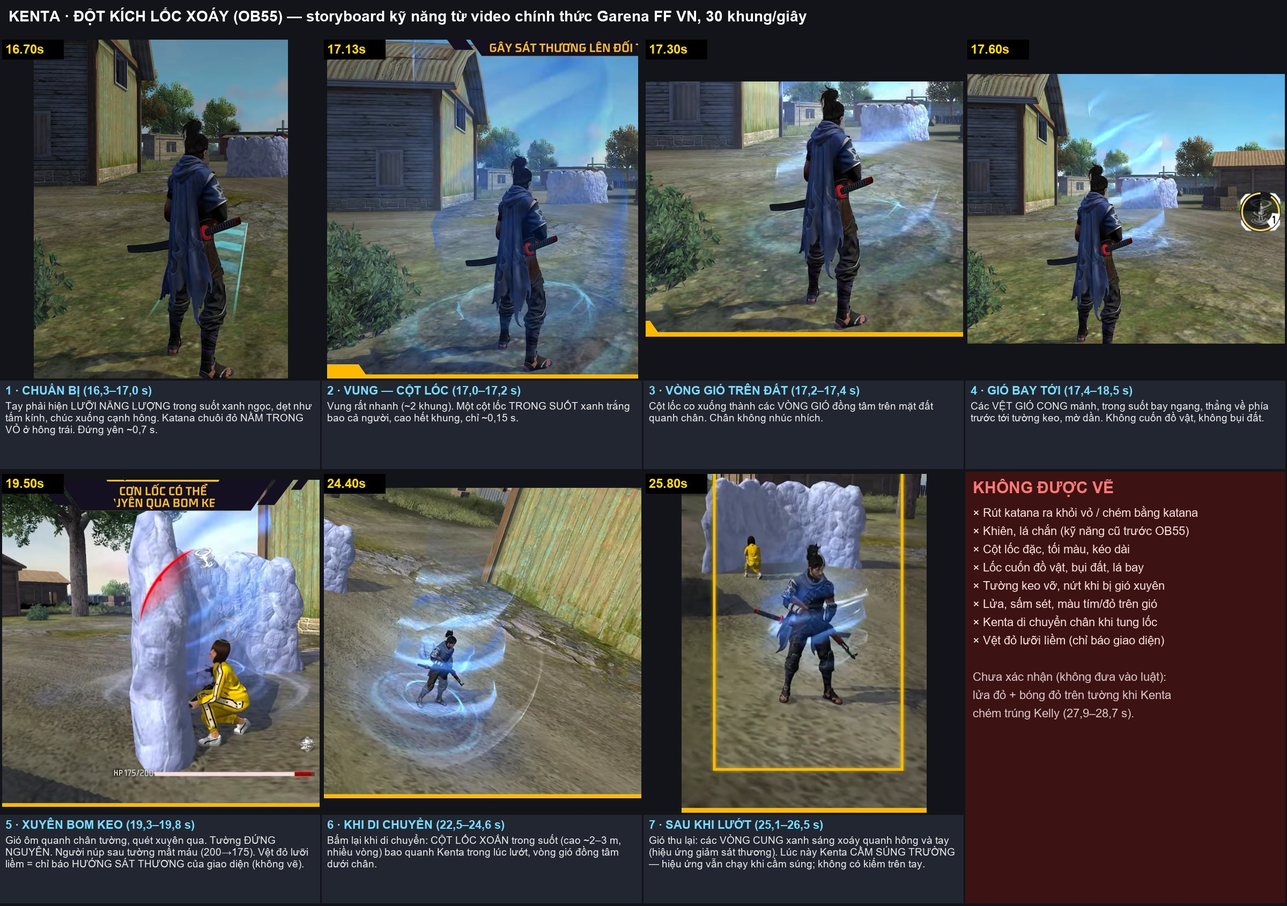
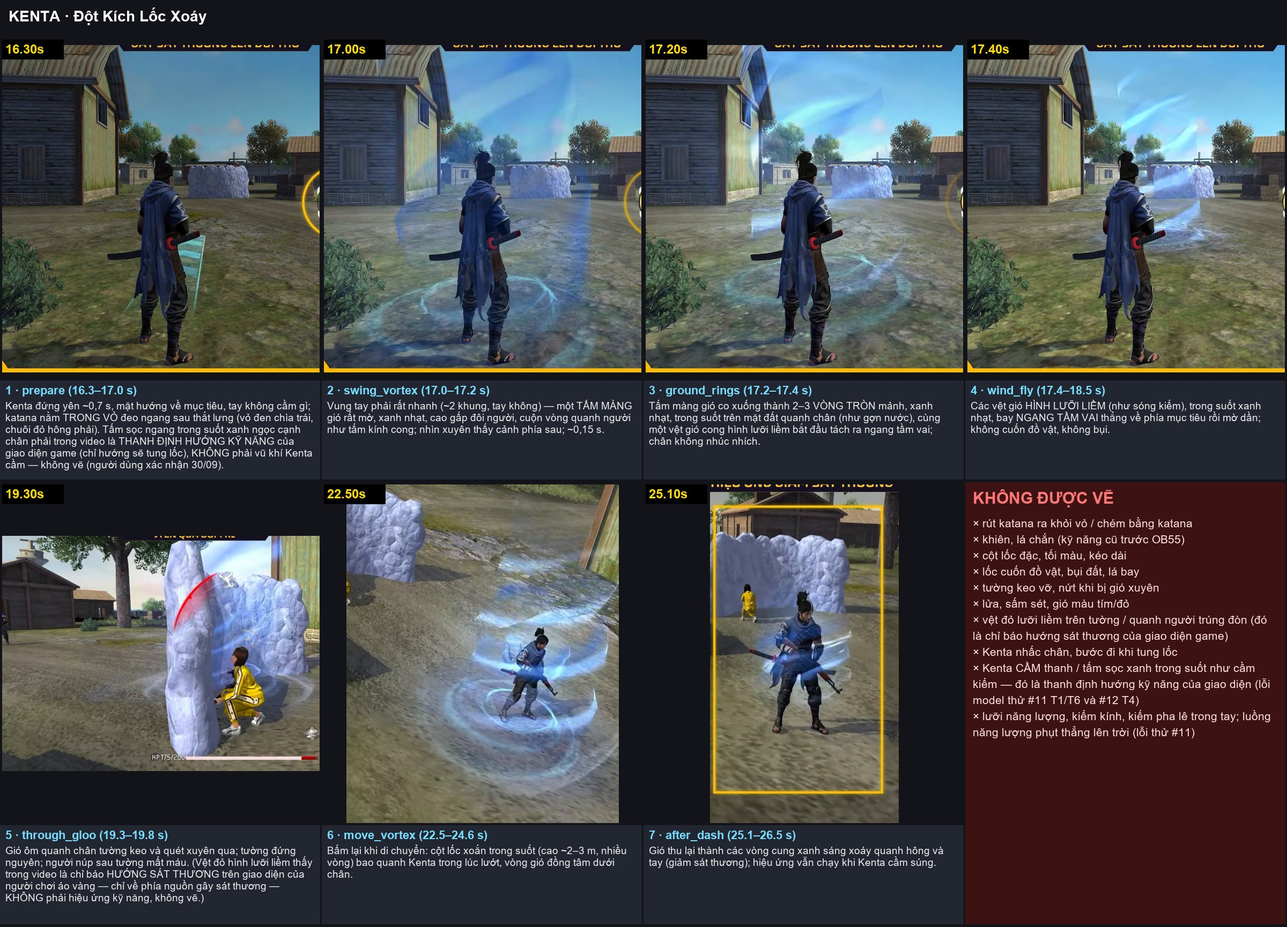
S5.5' thử place_render_refs 1 cảnh (#13, 0,312 USD): ảnh toàn cảnh khớp 3D, 5/5 khung theo chữ cũ → auto_spot cả cảnh một chỗ + câu render quyết định nơi chốn; S10.3 Orion gán vai; storyboard Kenta dựng lại (lệnh storyboard)

diff --git a/tools/experiments/place_refs_trial.py b/tools/experiments/place_refs_trial.py
@@ -1,0 +1,161 @@
+"""S5.5' — thử có trả tiền cờ `place_render_refs` trên 1 cảnh (người dùng duyệt 30/09; trần riêng CAP_USD):
+
+Cảnh "khu nhà dưới chân tháp" của #8 (shot 20–24, ban ngày, Tháp Đồng Hồ #263) chép sang một dự án thử (không đụng #8 đã giao).
+Mỗi shot được render 3D đúng góc máy làm ảnh tham chiếu nơi chốn + câu số đo; vẽ khung bằng model ảnh của #8 qua ImageRunner (trần +
+sổ chi); rồi đo độ khớp nền (`place_refs.background_match`) so với số gốc 0,073 của các khung #8 cũ.
+
+    py tools/experiments/place_refs_trial.py setup                  dự án thử (0 USD) — in mã dự án
+    py tools/experiments/place_refs_trial.py --project N plates     render 3D các shot (Blender, 0 USD)
+    py tools/experiments/place_refs_trial.py --project N plan       in ảnh tham chiếu + prompt sẽ gửi (0 USD, provider giả)
+    py tools/experiments/place_refs_trial.py --project N frames     vẽ ảnh toàn cảnh + khung các shot (trả tiền, trần CAP_USD)
+    py tools/experiments/place_refs_trial.py --project N measure    độ khớp nền từng shot, so với khung #8 cùng shot
+
+Chạy từ D:\\AI-Video-Pipeline."""
+import argparse
+import json
+import os
+import sys
+import time
+
+sys.path.insert(0, os.path.join(os.path.dirname(__file__), "..", ".."))
+
+NAME = "Thử place_render_refs 1 cảnh (30/09)"
+SOURCE, KEEP = 8, range(20, 25)        # #8, shots 20–24: "khu nhà dưới chân tháp", day
+CAP_USD = 1.0                          # 5 shots + 1 establishing ≈ 0,31 USD; ≤ 2 redraws each — người dùng duyệt 30/09
+BASELINE = 0.073                       # mean background match of the 19 measurable #8 frames (docs/THU_PLACE_RENDER_REFS_2026-09-30.md)
+ENV = {"FEATURE_PLACE_RENDER_REFS": "1", "FEATURE_STORYBOARD_API": "0", "FEATURE_LOCATION_PLATES": "0"}
+DATA = os.path.join("data", "projects")
+
+
+def _p():
+    from tools.experiments.group_test import load_env
+    load_env(os.getcwd())
+    os.environ.update(ENV)
+    from core.db import connect
+    from core.pipeline import Pipeline
+    return Pipeline(connect(os.environ.get("PIPELINE_DB") or os.path.join("data", "manifest.sqlite")))
+
+
+def spent(p, pid):
+    from core import project_budget
+    return round(sum(project_budget.spent_by_stage(p.conn, pid).values()), 4)
+
+
+def rows_of(p, pid):
+    return [{"id": r["id"], "idx": r["idx"], "data": json.loads(r["data"] or "{}")}
+            for r in p.conn.execute("SELECT id, idx, data FROM scenes WHERE project_id=? ORDER BY idx", (pid,))]
+
+
+def setup(p):
+    from core import compare
+    row = p.conn.execute("SELECT id FROM projects WHERE name=?", (NAME,)).fetchone()
+    if row:
+        print("đã có dự án:", row["id"])
+        return
+    pid = compare.clone_project(p, SOURCE, NAME)
+    p.conn.execute(f"DELETE FROM scenes WHERE project_id=? AND idx NOT IN ({','.join('?' * len(KEEP))})", (pid, *KEEP))
+    p.conn.commit()
+    print("dự án thử:", pid, "·", len(rows_of(p, pid)), "shot")
+
+
+def plates(p, pid):
+    from core import location_pack, place_refs
+    idx = location_pack.ensure_plates(p.conn, pid, DATA, os.getcwd(), place_refs.resolution_of(p.project(pid)), log=print)
+    for r in rows_of(p, pid):
+        rec = location_pack.plate_of(DATA, pid, r["id"])
+        print(r["idx"], r["data"].get("shot"), "→", rec and rec.get("plate"))
+    return idx
+
+
+def plan(p, pid):
+    from core.providers import MockImageProvider
+    from core.runner import ImageRunner
+    runner = ImageRunner(p, MockImageProvider(), DATA)
+    for r in rows_of(p, pid):
+        job = {"id": -1, "scene_id": r["id"], "project_id": pid, "retry_reason": None, "type": "image_gen"}
+        kw = runner._submit_kwargs(job)
+        args = runner._submit_args(job)
+        print(f"--- shot {r['idx']} ({r['data'].get('shot')})")
+        if not args:
+            print("(không gửi)")
+            continue
+        print("ẢNH:", [os.path.relpath(str(x)) for x in (args[1] if len(args) > 1 else [])], kw or "")
+        print(args[0])
+
+
+def frames(p, pid):
+    from core.adapters import factory
+    from core.runner import ImageRunner
+    rows = rows_of(p, pid)
+    todo = [r for r in rows if not p.conn.execute("SELECT 1 FROM jobs WHERE scene_id=? AND type='image_gen' AND state NOT IN "
+                                                  "('failed','rejected','cancelled')", (r["id"],)).fetchone()]
+    usd = 0.052 * (len(todo) + 1)                 # + the scene's establishing picture
+    s = spent(p, pid)
+    if s + usd > CAP_USD + 1e-9:
+        raise SystemExit(f"TRẦN CHẶN: đã chi ${s:.2f} + ≈ ${usd:.2f} > trần ${CAP_USD:.2f}")
+    print(f"trần: đã chi ${s:.2f}, lần này ≈ ${usd:.2f}, còn ${CAP_USD - s - usd:.2f}")
+    for r in todo:
+        p.create_job(r["id"], "image_gen")
+    runner = ImageRunner(p, factory.image_provider(), DATA)
+    ids = {r["id"] for r in rows}
+    t0 = time.time()
+    while time.time() - t0 < 2400:
+        if spent(p, pid) > CAP_USD + 1e-9:
+            print("TRẦN: dừng gửi thêm")
+            break
+        runner.submit_pending(pid)
+        runner.poll_once(pid)
+        states = {r["id"]: r["state"] for r in p.conn.execute("SELECT scene_id id, state FROM jobs WHERE project_id=? AND type='image_gen' "
+                                                              "ORDER BY id", (pid,)) if r["id"] in ids}
+        print(time.strftime("%H:%M:%S"), states, "· đã chi", spent(p, pid), flush=True)
+        if len(states) == len(ids) and all(s in ("succeeded", "approved", "pending_review", "failed", "escalated") for s in states.values()):
+            break
+        time.sleep(15)
+    print("đã chi:", spent(p, pid))
+
+
+def _latest_image(p, pid, scene_id):
+    j = p.conn.execute("SELECT id FROM jobs WHERE scene_id=? AND type='image_gen' AND state IN ('succeeded','approved','pending_review') "
+                       "ORDER BY id DESC LIMIT 1", (scene_id,)).fetchone()
+    path = j and os.path.join(DATA, str(pid), "images", f"job_{j['id']}.png")
+    return path if path and os.path.exists(path) else None
+
+
+def measure(p, pid):
+    from core import location_pack, place_refs
+    old = {r["idx"]: r["id"] for r in rows_of(p, SOURCE)}
+    out, new_s, old_s = [], [], []
+    for r in rows_of(p, pid):
+        rec = location_pack.plate_of(DATA, pid, r["id"])
+        plate = rec and rec.get("plate")
+        new = _latest_image(p, pid, r["id"])
+        before = _latest_image(p, SOURCE, old.get(r["idx"])) if old.get(r["idx"]) else None
+        a = place_refs.background_match(new, plate) if new and plate else None
+        b = place_refs.background_match(before, plate) if before and plate else None
+        new_s += [a] if a is not None else []
+        old_s += [b] if b is not None else []
+        out.append({"shot": r["idx"], "size": r["data"].get("shot"), "new": a, "old_8": b, "image": new, "plate": plate})
+        print(f"shot {r['idx']:>2} {str(r['data'].get('shot'))[:28]:<28} mới {a}  ·  #8 cũ {b}")
+    avg = lambda v: round(sum(v) / len(v), 3) if v else None  # noqa: E731
+    print(f"TRUNG BÌNH mới {avg(new_s)} (n={len(new_s)}) · #8 cũ cùng shot {avg(old_s)} (n={len(old_s)}) · số gốc 19 khung #8 {BASELINE}")
+    dest = os.path.join(DATA, str(pid), "place_refs_measure.json")
+    json.dump({"rows": out, "mean_new": avg(new_s), "mean_old": avg(old_s), "baseline": BASELINE, "usd": spent(p, pid)},
+              open(dest, "w", encoding="utf-8"), ensure_ascii=False, indent=1)
+    print("ghi:", dest)
+
+
+def main(argv=None):
+    ap = argparse.ArgumentParser()
+    ap.add_argument("step", choices=("setup", "plates", "plan", "frames", "measure"))
+    ap.add_argument("--project", type=int)
+    a = ap.parse_args(argv)
+    p = _p()
+    if a.step == "setup":
+        return setup(p)
+    if not a.project:
+        raise SystemExit("cần --project N")
+    {"plates": plates, "plan": plan, "frames": frames, "measure": measure}[a.step](p, a.project)
+
+
+if __name__ == "__main__":
+    main()

diff --git a/tests/test_place_refs.py b/tests/test_place_refs.py
@@ -61,6 +61,14 @@ class PlaceRefsTests(unittest.TestCase):
         self.assertEqual(place_refs.swap_in(refs, None, 6), refs)
         self.assertEqual(len(place_refs.swap_in(refs, ref, 2)), 2)
 
+    def test_the_render_wins_over_place_words(self):
+        """S5.5' 30/09: 5/5 shots drew the "stone plaza + tower" words instead of the attached render — the prompt now says the render
+        decides the place, before the scene text."""
+        import inspect
+        from core import runner
+        self.assertIn("draw what the render shows and ignore those words", place_refs.PRECEDENCE)
+        self.assertIn("place_refs.PRECEDENCE", inspect.getsource(runner.ImageRunner._submit_args))
+
     def test_geometry_sentence_has_the_real_numbers(self):
         s = place_refs.geometry_sentence(REC, {"characters": ["KELLY"]}, 250.0)
         self.assertIn("35 mm lens, camera 1.6 m above the ground", s)
@@ -134,6 +142,22 @@ class PlaceRefsTests(unittest.TestCase):
         old = dict(houses, plate_spot="level_26_0")                        # an FFXN spot name: the words decide, and it is said
         self.assertEqual(location_pack.spot_for(entry, old)["name"], "nha_do_nam")
         self.assertIn("'nha_do_nam' (khớp chữ mô tả shot)", location_pack.spot_problem(entry, old))
+
+    def test_every_shot_of_a_scene_stands_at_the_same_spot(self):
+        """S5.5' 30/09: the scene's place words decide before each shot's prompt words; a spot NAMED by the words beats one that only
+        mentions them in its side description."""
+        from core import location_pack
+        entry = {"default_spot": "plaza_front", "spots": {
+            "plaza_front": {"at": [0, 0, 0], "label": "quảng trường trước tháp (cách 16 m)"},
+            "dong_co_tay_nam": {"at": [1, 0, 0], "label": "đồng cỏ tây nam — bậc thang, dãy nhà, tháp phía sau"},
+            "nha_do_nam": {"at": [2, 0, 0], "label": "dãy nhà mái đỏ phía nam"}}}
+        place = "Quanh Tháp Đồng Hồ (Đảo Quân Sự) — khu nhà dưới chân tháp"
+        shots = [{"location": place, "image_prompt": "wide shot, stone plaza, the clock tower in background"},
+                 {"location": place, "image_prompt": "over the shoulder, daytime yard, grass"},
+                 {"location": place, "blocking": "quảng trường trước tháp, Kelly chạy"}]
+        self.assertEqual({location_pack.spot_for(entry, d)["name"] for d in shots}, {"nha_do_nam"})
+        self.assertEqual(location_pack.auto_spot(entry, {"location": "Tháp Đồng Hồ", "image_prompt": "rặng dừa"}), None)
+        self.assertEqual(location_pack.auto_spot(entry, {"location": "Tháp Đồng Hồ", "blocking": "đồng cỏ"}), "dong_co_tay_nam")
 
     def test_background_render_runs_once_per_project(self):
         gate, calls = threading.Event(), []

diff --git a/tools/skill_dossier_build.py b/tools/skill_dossier_build.py
@@ -197,10 +197,20 @@ def clean_sheet(d, info, out, height=768):
 
 
 def storyboard(d, info, out):
-    """Panels = the phases (crop + seconds + Vietnamese caption) and a 'KHÔNG ĐƯỢC VẼ' panel from never_vi."""
+    """Panels = the phases (crop + seconds + Vietnamese caption) and a 'KHÔNG ĐƯỢC VẼ' panel from never_vi. A hand-built dossier
+    (no source video in `build`, e.g. KENTA) uses each phase's own cut image `frame` instead of re-cutting the video."""
     from PIL import Image, ImageDraw
     b = d["build"]
-    phases = [p for p in d["phases"] if p["id"] in b.get("crops", {})]
+    folder = b.get("_folder") or "."
+
+    def panel(p):
+        if p["id"] in b.get("crops", {}):
+            t, box = b["crops"][p["id"]]
+            return t, _box(Image.open(frame_at(b, t, info)).convert("RGB"), box)
+        return float(p["t"][0]), Image.open(os.path.join(folder, p["frame"])).convert("RGB")
+
+    phases = [p for p in d["phases"] if p["id"] in b.get("crops", {})
+              or (p.get("frame") and os.path.exists(os.path.join(folder, p["frame"])))]
     W, H, CAP, cols = 600, 640, 190, 4
     n = len(phases) + 1
     rows = (n + cols - 1) // cols
@@ -220,9 +230,8 @@ def storyboard(d, info, out):
         return lines + [cur]
 
     for k, p in enumerate(phases):
-        t, box = b["crops"][p["id"]]
+        t, im = panel(p)
         x, y = (k % cols) * W, 70 + (k // cols) * (H + CAP)
-        im = _box(Image.open(frame_at(b, t, info)).convert("RGB"), box)
         im.thumbnail((W - 8, H - 8))
         sb.paste(im, (x + (W - im.width) // 2, y + (H - im.height) // 2))
         dr.rectangle([x + 4, y + 4, x + 118, y + 40], fill=(0, 0, 0))
@@ -290,7 +299,7 @@ def cmd_build(folder):
 
 def main(argv=None):
     ap = argparse.ArgumentParser()
-    ap.add_argument("step", choices=("sparse", "dense", "build"))
+    ap.add_argument("step", choices=("sparse", "dense", "build", "storyboard"))
     ap.add_argument("paths", nargs="+")
     ap.add_argument("--from", dest="t0", type=float)
     ap.add_argument("--to", dest="t1", type=float)
@@ -299,6 +308,10 @@ def main(argv=None):
         cmd_sparse(*a.paths[:2])
     elif a.step == "dense":
         cmd_dense(a.paths[0], a.paths[1], a.t0, a.t1)
+    elif a.step == "storyboard":            # only the storyboard again, from the cut images already in the folder
+        d = json.load(open(os.path.join(a.paths[0], "skill.json"), encoding="utf-8"))
+        d["build"]["_folder"] = a.paths[0]
+        print("xong:", storyboard(d, None, os.path.join(a.paths[0], d.get("storyboard") or "storyboard_ky_nang.jpg")))
     else:
         cmd_build(a.paths[0])
 

diff --git a/core/location_pack.py b/core/location_pack.py
@@ -89,19 +89,25 @@ def auto_spot(entry: Dict, data: Dict) -> Optional[str]:
     """30/09 dry run on #8: every one of 33 shots stood on the default spot although the scenes said "khu nhà ở dưới chân tháp",
     "góc khuất gần khu nhà", "chiến trường…" (`plate_spot` is only written when the Director sees the spot list). A shot without
     `plate_spot`: the spot whose label shares the most words with the shot's place / text (≥ 1 meaningful word), else None.
-    Indoor spots only when the shot says it is inside (trong nhà / inside / indoor / room / phòng)."""
+    Indoor spots only when the shot says it is inside (trong nhà / inside / indoor / room / phòng).
+    The scene's place words (`location` / `set`, the same on every shot of a script scene) are matched first, the shot's own words only
+    when they match nothing — S5.5' 30/09: matching each shot's prompt put shots 20/21/23 of one conversation at the tower's foot and
+    22/24 on the south-west meadow 150 m away."""
     spots = entry.get("spots") or {}
     blob = " ".join(str(data.get(k) or "") for k in ("location", "set", "text", "image_prompt", "blocking"))
-    words = _words(blob)
     inside = bool(re.search(r"\b(trong nha|inside|indoor|interior|room|phong|living room|bedroom|kitchen)\b", assets.fold(blob)))
-    best, score = None, 0
-    for name, sp in spots.items():
-        if bool(sp.get("indoor")) != inside:
-            continue
-        s = len(words & _words(f"{sp.get('label') or ''} {name.replace('_', ' ')}"))
-        if s > score:
-            best, score = name, s
-    return best
+
+    def best_for(words):
+        best, score = None, 0
+        for name, sp in spots.items():
+            if bool(sp.get("indoor")) != inside:
+                continue
+            head, _, rest = str(sp.get("label") or "").partition(" — ")    # "đồng cỏ tây nam — bậc thang, dãy nhà…": the head
+            s = 2 * len(words & _words(f"{head} {name.replace('_', ' ')}")) + len(words & (_words(rest) - _words(head)))   # names it
+            if s > score:
+                best, score = name, s
+        return best
+    return best_for(_words(" ".join(str(data.get(k) or "") for k in ("location", "set")))) or best_for(_words(blob))
 
 
 def spot_for(entry: Dict, data: Dict) -> Dict:

diff --git a/core/place_refs.py b/core/place_refs.py
@@ -32,6 +32,16 @@ _RUNNING: Dict[int, threading.Thread] = {}
 _LOCK = threading.Lock()
 
 
+# S5.5' (30/09, project #13, 0,31 USD): with the render attached AND scene words describing another place ("stone plaza, the clock tower
+# in background", the generic "Setting: … tower stands on a wide flat stone plaza"), gpt-image-2.5 drew the words: 5/5 shots a paved plaza
+# + tower, 0/5 the house and grass of the render (the establishing picture, with no such words, matched the render). The render must win
+# over words, said before the scene text.
+PRECEDENCE = ("The place is decided by the 3D render image of this shot, not by words: wherever the scene or setting text below describes "
+              "the ground, buildings, tower, walls or layout differently from that render (for example a paved plaza where the render shows "
+              "grass, or a tower the render does not show), draw what the render shows and ignore those words. Take from the text only the "
+              "people, their actions, expressions and the light.")
+
+
 def enabled() -> bool:
     return features.on(FEATURE) and not features.on("location_plates")
 

diff --git a/core/runner.py b/core/runner.py
@@ -1490,6 +1490,7 @@ class ImageRunner(_Runner):
                 geo = place_refs.geometry_sentence(ref["_rec"], data, (entry or {}).get("sun_azimuth", 250.0))
                 if geo:
                     prompt = f"{prompt} {geo}"
+                prompt = f"{place_refs.PRECEDENCE} {prompt}"   # S5.5' 30/09: words about the place lost to the render otherwise
         from . import skill_dossier
         if skill_dossier.enabled():                    # 30/09: the phase's real frame from the skill video (the dossier)
             for problem in skill_dossier.shot_problems(data):

diff --git a/docs/KE_HOACH_SUA_SAU_DU_AN_8.md b/docs/KE_HOACH_SUA_SAU_DU_AN_8.md
@@ -118,7 +118,7 @@
 - [x] S5.2 · Chặn prompt thiếu câu bố cục · nặng:1 · ✅ · 2026-09-29: job ảnh bị giữ (miễn phí) khi cảnh ghi nơi Kho có mô tả bố cục mà dự án chưa gắn; câu bố cục không còn bị cắt ở 300 ký tự; test
 - [x] S5.3 · Địa điểm đổi → khung thành "cũ" · nặng:1 · ✅ · 2026-09-29: dấu vân tay bối cảnh (mô tả + ảnh) trong mã đầu vào ảnh; ảnh làm trước 29/09 không báo nhầm; test
 - [x] S5.4 · Lớp 0 đo "tầng tường" · nặng:2 · ✅ · 2026-09-29: đếm đường ngang dài ở nền (hiệu chỉnh trên dữ liệu thật: render tháp 0–3, khung nhiều tầng #8 5–10) → cờ stacked_tiers khi bối cảnh Kho tả là phẳng; test
-- [ ] S5.5 · 💵 Thử 1 cảnh `place_render_refs` (3–5 shot ở Tháp, render 3D đúng góc làm ảnh tham chiếu) — thay việc vẽ lại khung FFXN cũ; so độ khớp nền với mốc 0,073 · nặng:1 · ⬜ · chạy khô #8 xong 30/09 (33/33 shot có render + câu số đo); ≈ 0,5 USD, hỏi trước
+- [ ] S5.5 · 💵 Thử 1 cảnh `place_render_refs` (3–5 shot ở Tháp, render 3D đúng góc làm ảnh tham chiếu) — thay việc vẽ lại khung FFXN cũ; so độ khớp nền với mốc 0,073 · nặng:1 · 🔄 · 30/09 chiều: thử trả tiền #13 (0,312 USD): ảnh toàn cảnh khớp render, 5/5 khung shot theo chữ cũ "stone plaza + tower" thay vì render → sửa `auto_spot` (cả cảnh một chỗ) + câu "render quyết định nơi chốn" (`place_refs.PRECEDENCE`); số background_match không phân biệt được (0,202 vs 0,208) — chờ người dùng cho vẽ lại 5 khung ≈ 0,26 USD (docs/THU_PLACE_RENDER_REFS_2026-09-30.md mục 7); chạy khô #8 xong 30/09 (33/33 shot có render + câu số đo); ≈ 0,5 USD, hỏi trước
 - [x] S5.6 · Render tháp GLB thành video white-model làm tham chiếu cho Seedance 2.5 · nặng:1 · ✅ · 2026-09-29 (người dùng: 'tự làm kèm video'): 3 đường máy (đi bộ vào, vòng quanh, cần cẩu) × bản chất liệu + white-model; đã sửa đường đi bộ xuyên tường
 
 ### S6 — Ước tính, ngân sách, dashboard
@@ -137,7 +137,7 @@
 - [x] S10.0 · Hồ sơ kỹ năng Kenta + cờ `skill_dossier` + nghiên cứu cách gửi ảnh / video tham chiếu + thử #11 (T1–T3) · nặng:3 · ✅ · 2026-09-30: data/skills/KENTA (20 khung 30 khung/giây, storyboard, skill.json, video_ref); core/skill_dossier.py; docs/NGHIEN_CUU_PROMPT_THAM_CHIEU_2026-09-30.md (tài liệu chính thức Kling / Seedance 2.5); knowledge/reference_assets_prompting.md (Director / DP / motion đọc); adapter Kling ảnh tham chiếu không type + 3 luật video; T1 Seedance 2.5 + video kỹ năng = hiệu ứng gần game nhất (dự án thử #11, 5,91 USD)
 - [x] S10.1 · Công cụ dựng hồ sơ kỹ năng `tools/skill_dossier_build.py` (video chính thức → khung dày, cắt cận, storyboard, video_ref đúng luật, nháp skill.json; tách HUD) · nặng:2 · ✅ · 30/09: lệnh sparse / dense / build, thông số ghi ở skill.json `build`; cắt video tham chiếu tự đạt ≥ 3 s, rộng ≥ 700, ≥ 407 696 điểm ảnh, SAR 1:1; test
 - [x] S10.2 · Hồ sơ kỹ năng Orion — người dùng duyệt · nặng:2 · ✅ · 30/09: data/skills/ORION theo mô tả chính thức trong game (Huyết Cầu Bảo Hộ: 3 s, 5 m, không tấn công, chậm 5%) + xem từng khung 16–25 s; người dùng sửa 2 điểm (dây đỏ chỉ khi có địch — gây sát thương + hút máu; bùng dây MỘT lần ngay trước khi hết) → đã áp (final_burst)
-- [ ] S10.3 · Bộ ảnh chuẩn Orion vào Kho #43 — người dùng duyệt · nặng:1 · ⏸ · 30/09: Kho #43 đã đủ 6 ảnh (chưa gán vai) — gán design_sheet #46, half_body #753, close_up #756; #754 trùng hệt #106, #755 trùng hệt #753 → chờ người dùng xóa 2 ảnh trùng để thêm ảnh in-game `KHO TÀI NGUYÊN/Nhân vật/Orion/ORION_front_ingame_cat.png` (front_standard) + khung kỹ năng (related)
+- [x] S10.3 · Bộ ảnh chuẩn Orion vào Kho #43 — người dùng duyệt · nặng:1 · ✅ · 30/09 chiều (người dùng duyệt): 2 ảnh trùng đã gỡ, ảnh chính diện #1033 (front_standard) + bảng 4 góc #1034 (design_sheet) đã vào Kho (commit 5b37801); gán nốt #106 half_body, #46 bảng thiết kế lớn = design_sheet xếp sau #1034 (bộ chuẩn gửi model = #1033 + #1034, kiểm bằng `assets.standard_set`); Kho đủ 6 ảnh nên khung kỹ năng không vào Kho — đường kỹ năng dùng tờ kỹ năng sạch của data/skills/ORION. Kho còn thiếu: ảnh sau lưng, ảnh chuẩn anime. Ghi chú cũ: Kho #43 đã đủ 6 ảnh (chưa gán vai) — gán design_sheet #46, half_body #753, close_up #756; #754 trùng hệt #106, #755 trùng hệt #753 → chờ người dùng xóa 2 ảnh trùng để thêm ảnh in-game `KHO TÀI NGUYÊN/Nhân vật/Orion/ORION_front_ingame_cat.png` (front_standard) + khung kỹ năng (related)
 - [x] S10.4 · Bộ chọn model + gửi tài sản tự động: shot có kỹ năng → Seedance 2.5, khung đầu + ảnh từng người + video_ref từng kỹ năng, câu vai trò theo mẫu chính thức; adapter nhận nhiều video · nặng:3 · ✅ · 30/09: model_router (kể cả chế độ thử rẻ vẫn 2.5), VideoRunner đường kỹ năng (không gộp nhóm, báo thiếu ảnh định danh), skill_dossier.shot_skills / video_ref / reference_block; 2 kỹ năng trong 1 shot = 2 @Video theo thứ tự; tests/test_skill_route.py
 - [x] S10.5 · Luật Seedance trước khi gửi (video 2–30 s, tổng ≤ 30 s, điểm ảnh, fps, ≤ 30 ảnh, ≤ 10 video) · nặng:1 · ✅ · 30/09: `clipai.reference_video_problems` theo từng nhà cung cấp (Kling: 1 video 3–15,5 s, CẢ rộng và cao 700–4553 px; Seedance: 2–30 s, tổng ≤ 30 s, 407 696–8 295 044 điểm ảnh, 2.0 ≤ 3 / 2.5 ≤ 10 video; cả hai 24–60 fps, SAR 1:1) — bắt được lỗi thật: video Orion 764×552 Kling sẽ từ chối → công cụ cắt cạnh ngắn ≥ 704 px
 - [x] S10.6 · White-model thô: Blender khối trụ màu mỗi người + đường máy trên bản đồ 3D thật → video xếp chỗ đứng · nặng:2 · ✅ · 30/09: core/whitebox.py (người đặt theo mét trước / phải so với máy của một chỗ đứng trong gói 3D, `to` = di chuyển, `face` = nhìn máy / nhìn người khác; máy mặc định nhắm giữa nhóm) + render_plates khối trụ màu có mũi chỉ hướng; câu vai trò "khối đỏ = KENTA…" theo mẫu chính thức; chạy thật Tháp plaza_front 3 người: 54 s Blender, 720×1280, 3,4 s, SAR 1:1 — D:/AI-Video-Output/2026-09-30_thu-ky-nang-kenta/whitebox/; test

diff --git a/docs/THU_PLACE_RENDER_REFS_2026-09-30.md b/docs/THU_PLACE_RENDER_REFS_2026-09-30.md
@@ -69,3 +69,26 @@ không mất. Từ nay sao lưu bằng API backup của SQLite (`sqlite3.Connect
 ## 6. Đề xuất bước tiếp (cần người dùng duyệt — tốn tiền)
 Bật `place_render_refs` cho **1 cảnh** (3–5 shot ở Tháp, ban ngày), vẽ ảnh toàn cảnh + ảnh shot bằng model đang dùng; so độ khớp nền với số
 gốc 0,073 và xem bằng mắt. Ước tính: 1 ảnh toàn cảnh + 3–5 ảnh shot (giá theo `data/pricing` của model ảnh dự án).
+
+## 7. S5.5' — thử trả tiền 1 cảnh (30/09 chiều, người dùng duyệt; dự án thử #13, **0,312 USD**, trần riêng 1 USD)
+Cảnh "khu nhà dưới chân tháp" của #8 (shot 20–24, ban ngày) chép sang #13 (#8 không đổi); `tools/experiments/place_refs_trial.py`
+(setup → plates → plan → frames → measure). Ảnh so sánh: `D:/AI-Video-Output/2026-09-30_thu-place-refs/`.
+
+**Trước khi trả tiền — chạy khô tìm 1 lỗi, đã sửa + test:** `auto_spot` chọn chỗ đứng theo chữ riêng từng shot → cùng một cuộc nói
+chuyện, shot 20/21/23 đứng ở chân tháp còn 22/24 ở đồng cỏ tây nam cách ~150 m. Sửa: chữ nơi của cảnh (`location` / `set`, giống nhau mọi
+shot) quyết trước, chữ riêng shot chỉ khi nơi không khớp chỗ nào; chữ ở tên chính của chỗ (trước "—") nặng gấp đôi phần mô tả phụ. Sau sửa:
+5/5 shot cùng chỗ `nha_lon_dong`, render rõ nhà mái đỏ / tường / bãi xe (góc ngược).
+
+**Kết quả (1 ảnh toàn cảnh + 5 khung, gpt-image-2.5-sunburst):**
+| | Kết quả |
+|---|---|
+| Ảnh toàn cảnh cảnh 4 (không có chữ tả nơi khác) | **khớp render** bằng mắt: nhà mái đỏ, tường chắn, bậc thang, bãi cỏ, xe hỏng |
+| 5 khung shot | **0/5 theo render** — cả 5 vẽ quảng trường lát đá + tháp nhọn như khung #8 cũ; model theo CHỮ: prompt Director cũ của #8 ("stone plaza, the clock tower in background") + câu Setting chung ("tower stands on a wide flat stone plaza") mâu thuẫn ảnh render |
+| Độ khớp nền (`background_match`) | mới 0,202 · khung #8 cũ cùng shot 0,208 — **số đo không phân biệt được** (cạnh mặt đất / cỏ trùng ngẫu nhiên); đọc bằng mắt, không dùng số này làm kết luận |
+
+**Bài học → đã sửa (0 USD):** khi gửi render, prompt nói trước phần chữ rằng **render quyết định nơi chốn**, chữ về nền / nhà / tháp / tường
+trái với render thì bỏ, chỉ lấy người, hành động, biểu cảm, ánh sáng từ chữ (`place_refs.PRECEDENCE`; chạy khô #13: 5/5 prompt có câu này).
+Ở luồng thật, Director chạy lại với danh sách chỗ đứng sẽ viết chữ đúng nơi — lần thử này dùng prompt cũ của #8 nên mâu thuẫn nặng nhất.
+Số `background_match` cần sửa trước khi làm thước đo (bỏ vùng cỏ / mặt đất, chỉ so đường nét kiến trúc) — ghi việc tồn.
+
+**Chờ người dùng:** vẽ lại 5 khung #13 với câu mới (≈ 0,26 USD; tổng S5.5' ≈ 0,57 USD) — đổi đầu vào đúng luật, lần vẽ lại 1/2.

diff --git a/TODO.md b/TODO.md
@@ -1,7 +1,7 @@
 # TODO — Theo dõi tiến độ dự án Auto Pipeline Video AI
 
 ## 📌 TRẠNG THÁI 2026-09-30 — PHIÊN MỚI ĐỌC MỤC NÀY TRƯỚC
-> **30/09 (người dùng): các việc TEST KỊCH BẢN (đợt K: K.1 kịch bản Kenta + Orion, K.2 chạy trọn ≤ 25 USD, K.3 đo lại) KHÔNG ưu tiên làm trước nữa** — tạm gác, làm khi người dùng gọi. Thứ tự mới: S10.11 việc miễn phí còn lại → S5.5' (place_render_refs 1 cảnh, đã duyệt) → S8 chấm lại → các việc S0 / S1 / S2 / S4 / S7 còn mở. Còn: dựng lại storyboard_ky_nang.jpg của Kenta (ô 1 còn chữ "lưỡi năng lượng" — thực ra là thanh định hướng kỹ năng).
+> **30/09 (người dùng): các việc TEST KỊCH BẢN (đợt K: K.1 kịch bản Kenta + Orion, K.2 chạy trọn ≤ 25 USD, K.3 đo lại) KHÔNG ưu tiên làm trước nữa** — tạm gác, làm khi người dùng gọi. Thứ tự mới: S10.11 việc miễn phí còn lại → S5.5' (place_render_refs 1 cảnh, đã duyệt) → S8 chấm lại → các việc S0 / S1 / S2 / S4 / S7 còn mở. Storyboard kỹ năng Kenta đã dựng lại 30/09 chiều (`py tools/skill_dossier_build.py storyboard data/skills/KENTA` — lệnh mới, dùng ảnh cắt sẵn của hồ sơ dựng tay); S10.3 Orion xong. **S5.5' thử trả tiền #13 (0,312 USD):** ảnh toàn cảnh khớp 3D, 5/5 khung shot theo chữ cũ thay vì render → đã sửa `auto_spot` + câu "render quyết định nơi chốn"; chờ duyệt vẽ lại ≈ 0,26 USD.
 > **Tiến độ duy nhất:** `docs/KE_HOACH_SUA_SAU_DU_AN_8.md` (98 việc, 13 đợt; thêm đợt **S10 Kỹ năng nhân vật & tham chiếu** 30/09) — xem bằng
 > `py tools/plan_progress.py` hoặc web AI Development System. Kế hoạch làm nốt (người dùng duyệt 30/09): Bước 1 sổ sách → Bước 2 code miễn phí
 > S10.1–S10.7, S10.11 → Bước 3 thử trả tiền (trần 15 USD, hỏi từng bài) → Bước 4 kịch bản K có **Kenta + Orion cùng dùng kỹ năng** (K.2 ≤ 25 USD)
